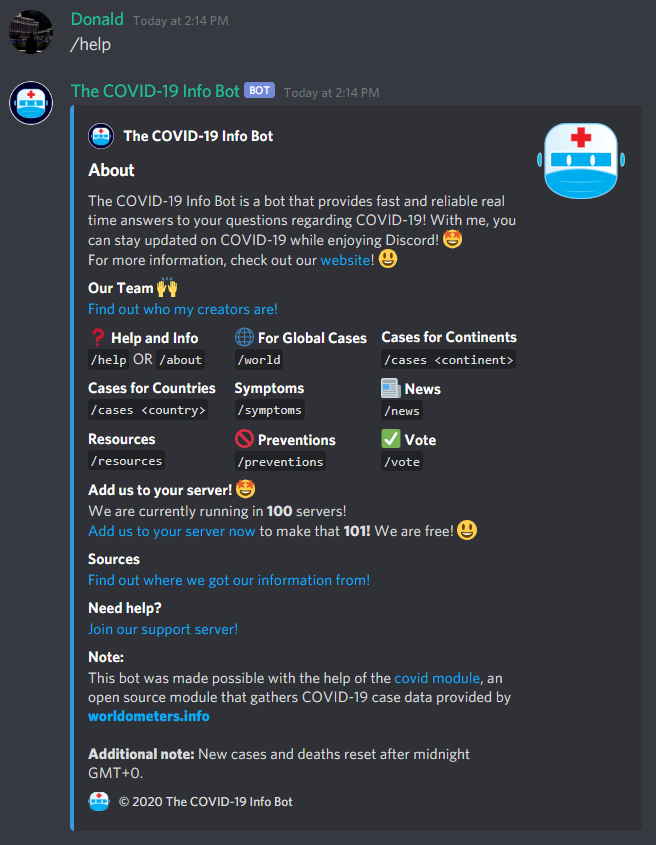
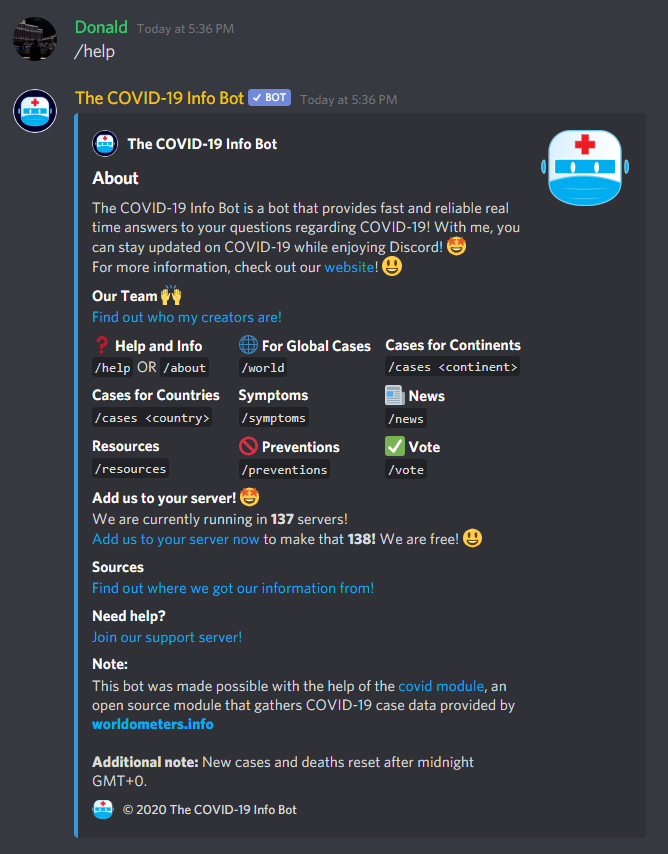
Updated the /help command image

Changed region(s): [[0.0, 0.0, 0.7927, 0.9846], [0.7927, 0.1231, 0.9451, 0.2462]]

diff --git a/faq.html b/faq.html
@@ -1,0 +1,101 @@
+<!--<script>
+alert('Hello there! This website is still in progress and not yet responsive for most devices!');
+</script>-->
+<!DOCTYPE html>
+<html lang="en">
+<head>
+
+	<!-- Global site tag (gtag.js) - Google Analytics -->
+	<script async src="https://www.googletagmanager.com/gtag/js?id=UA-176945690-1"></script>
+	<script>
+	  window.dataLayer = window.dataLayer || [];
+	  function gtag(){dataLayer.push(arguments);}
+	  gtag('js', new Date());
+
+	  gtag('config', 'UA-176945690-1');
+	</script>
+	
+	<!--SEO-->
+	<title>The COVID-19 Info Bot | FAQ</title>
+	<meta property="og:title" content="The COVID-19 Info Bot | FAQ">
+	<meta name="application-name" content="The COVID-19 Info Bot">
+	<meta name="title" property="og:title" content="The COVID-19 Info Bot | FAQ"> 	<!--Linkedin-->
+
+	<meta name="description" content="Want to stay updated on COVID-19 and receive daily COVID-19 updates from Discord? Introducing the COVID-19 info bot! A Discord bot for COVID-19!"/>
+	<meta property="og:description" content="Want to stay updated on COVID-19 and receive daily COVID-19 updates from Discord? Introducing the COVID-19 info bot! A Discord bot for COVID-19!">
+	
+	<meta name="keywords" content="Discord,Discord Bot,COVID-19,Coronavirus,Bot,Discord aid,COVID,COVID bot,COVID news,COVID info,COVID-19 bot for Discord,Prevention,Symptoms,COVID-19 resources,COVID-19 Symptoms ,COVID-19 updates,COVID-19 daily updates,The COVID-19 Info Bot,Convenient,COVID-19 cases,COVID-19 cases on Discord">
+	<meta name="author" content="The COVID-19 Info Bot Team">
+	<meta property="og:type" content="Website">
+	
+	<meta name="image" property="og:image" content="logos/covidbotmthnobg.png"> 	<!--Linkedin-->
+	
+<!--Icon of the website-->
+	<link rel="icon" href="logos/covidbotmthnobg.png" type="image/png"/>
+	<link rel="apple-touch-icon" href="logos/covidbotmthnobg.png" type="image/png"/>
+<!--^^^-->
+	<!--^^^-->
+	<meta charset="UTF-8">
+	<meta name="viewport" content="width=device-width, initial-scale=1.0, user-scalable=no">
+	<link rel="icon" href="logos/covidbotmthnobg.png" type="image/png"/>
+	<link rel="stylesheet" type="text/css" href="navbar.css">
+	<link rel="stylesheet" type="text/css" href="faq.css">
+
+	<script src="https://kit.fontawesome.com/ba7447c34f.js" crossorigin="anonymous"></script>
+</head>
+
+<body>
+<div class="TheResponsiveNavBarbackground" onclick="closebar()"></div>
+<nav>
+	<ul class="navbar">
+		<li class="nav_logo"><a href="index.html"><img class="nav_logo" src="logos/covidbotmthnobg.png"></a></li>
+		<li class="nav_title"><a href="index.html">The COVID-19 Info Bot</a></li>
+		
+		<li class="navbar_li"><a class='navbar_li' href="sources.html">Sources</a></li>
+		<li class="navbar_li"><a class='navbar_li' href="tos.html">Terms of Service</a></li>
+		<li class="navbar_li"><a class='navbar_li' href="team.html">Our Team</a></li>
+		<li class="navbar_li"><a class='active_page navbar_li' href="index.html">Home</a></li>
+	</ul>
+	
+	<div class='mobile_responsive_navbar_close' id='responsive_mobile_navbar'>	
+		<div class='r_navbar_button_plus'>
+			<div class="off"><i class="fas fa-bars" id="plusbtn" onclick='navbarfunction()'></i></div>
+			<div class="on"><i class="fas fa-bars on"  id="plusbtnon" onclick='navbarfunctionclose()'></i></div>
+		</div>
+		<ul class="responsive_navbar">
+			<li class="active_page responsive_navbar_li"><a class="r_a_text" href="index.html">Home</a></li>
+			<li class="responsive_navbar_li"><a class="r_a_text" href="team.html">Our Team</a></li>
+			<li class="responsive_navbar_li"><a class="r_a_text" href="tos.html">Terms of Service</a></li>
+			<li class="responsive_navbar_li"><a class="r_a_text" href="sources.html">Sources</a></li>
+		</ul>
+	</div>
+</nav>
+
+
+<!--Accordion start-->
+<button class="accordion">Example question?</button>
+<div class="inside_accordion">
+		<p>Hi</p>
+</div>
+
+<!--Accordion end-->
+
+</body>
+<script src="r_nav_bar.js"></script>
+<script>
+var faq_accordion = document.getElementsByClassName("accordion");
+var faq_status;
+
+for (faq_status = 0; faq_status < faq_accordion.length; faq_status++) {
+  faq_accordion[faq_status].addEventListener("click", function() {
+    this.classList.toggle("active");
+    var accordion_container = this.nextElementSibling;
+    if (accordion_container.style.maxHeight) {
+      accordion_container.style.maxHeight = null;
+    } else {
+      accordion_container.style.maxHeight = accordion_container.scrollHeight + "px";
+    } 
+  });
+}
+</script>
+</html>

diff --git a/faq.css b/faq.css
@@ -1,0 +1,55 @@
+/*CSS for the accordion*/
+
+.italic {
+  font-style: italic;
+}
+.accordion {
+  background-color: Transparent;
+  cursor: pointer;
+  padding: 18px;
+  width: 100%;
+  border: none;
+  text-align: left;
+  outline: none;
+  font-size: 15px;
+  transition: 0.4s;
+	font-family: Barlow Semi Condensed;
+	font-style: normal;
+	font-weight: normal;
+  font-size: 25px;
+  border-radius:25px;
+  line-height: 42px;
+  background: #333333;
+  color: white;
+  border: 2px solid #333333;
+}
+
+/*When the accordion is hovered on or is opened*/
+.active, .accordion:hover {
+  background-color: #FFFFFF;
+  color:black;
+  border: 2px solid black;
+}
+/*The plus and minus sign*/
+.accordion:after {
+  content: '\002B';
+  color: #777;
+  font-weight: bold;
+  float: right;
+  margin-left: 5px;
+}
+
+/*If removed, the minus sign is gone, when the user clicks on the accordion, the "plus" sign is replaced with a "minus" sign.*/
+.active:after {
+  content: "\2212";
+}
+
+/*The thing that shows up when accordion is on*/
+.inside_accordion {
+  position:relative;
+  padding: 0 5px;
+  background-color: white;
+  max-height: 0;
+  overflow: hidden;
+  transition: max-height 0.2s ease-out;
+}
